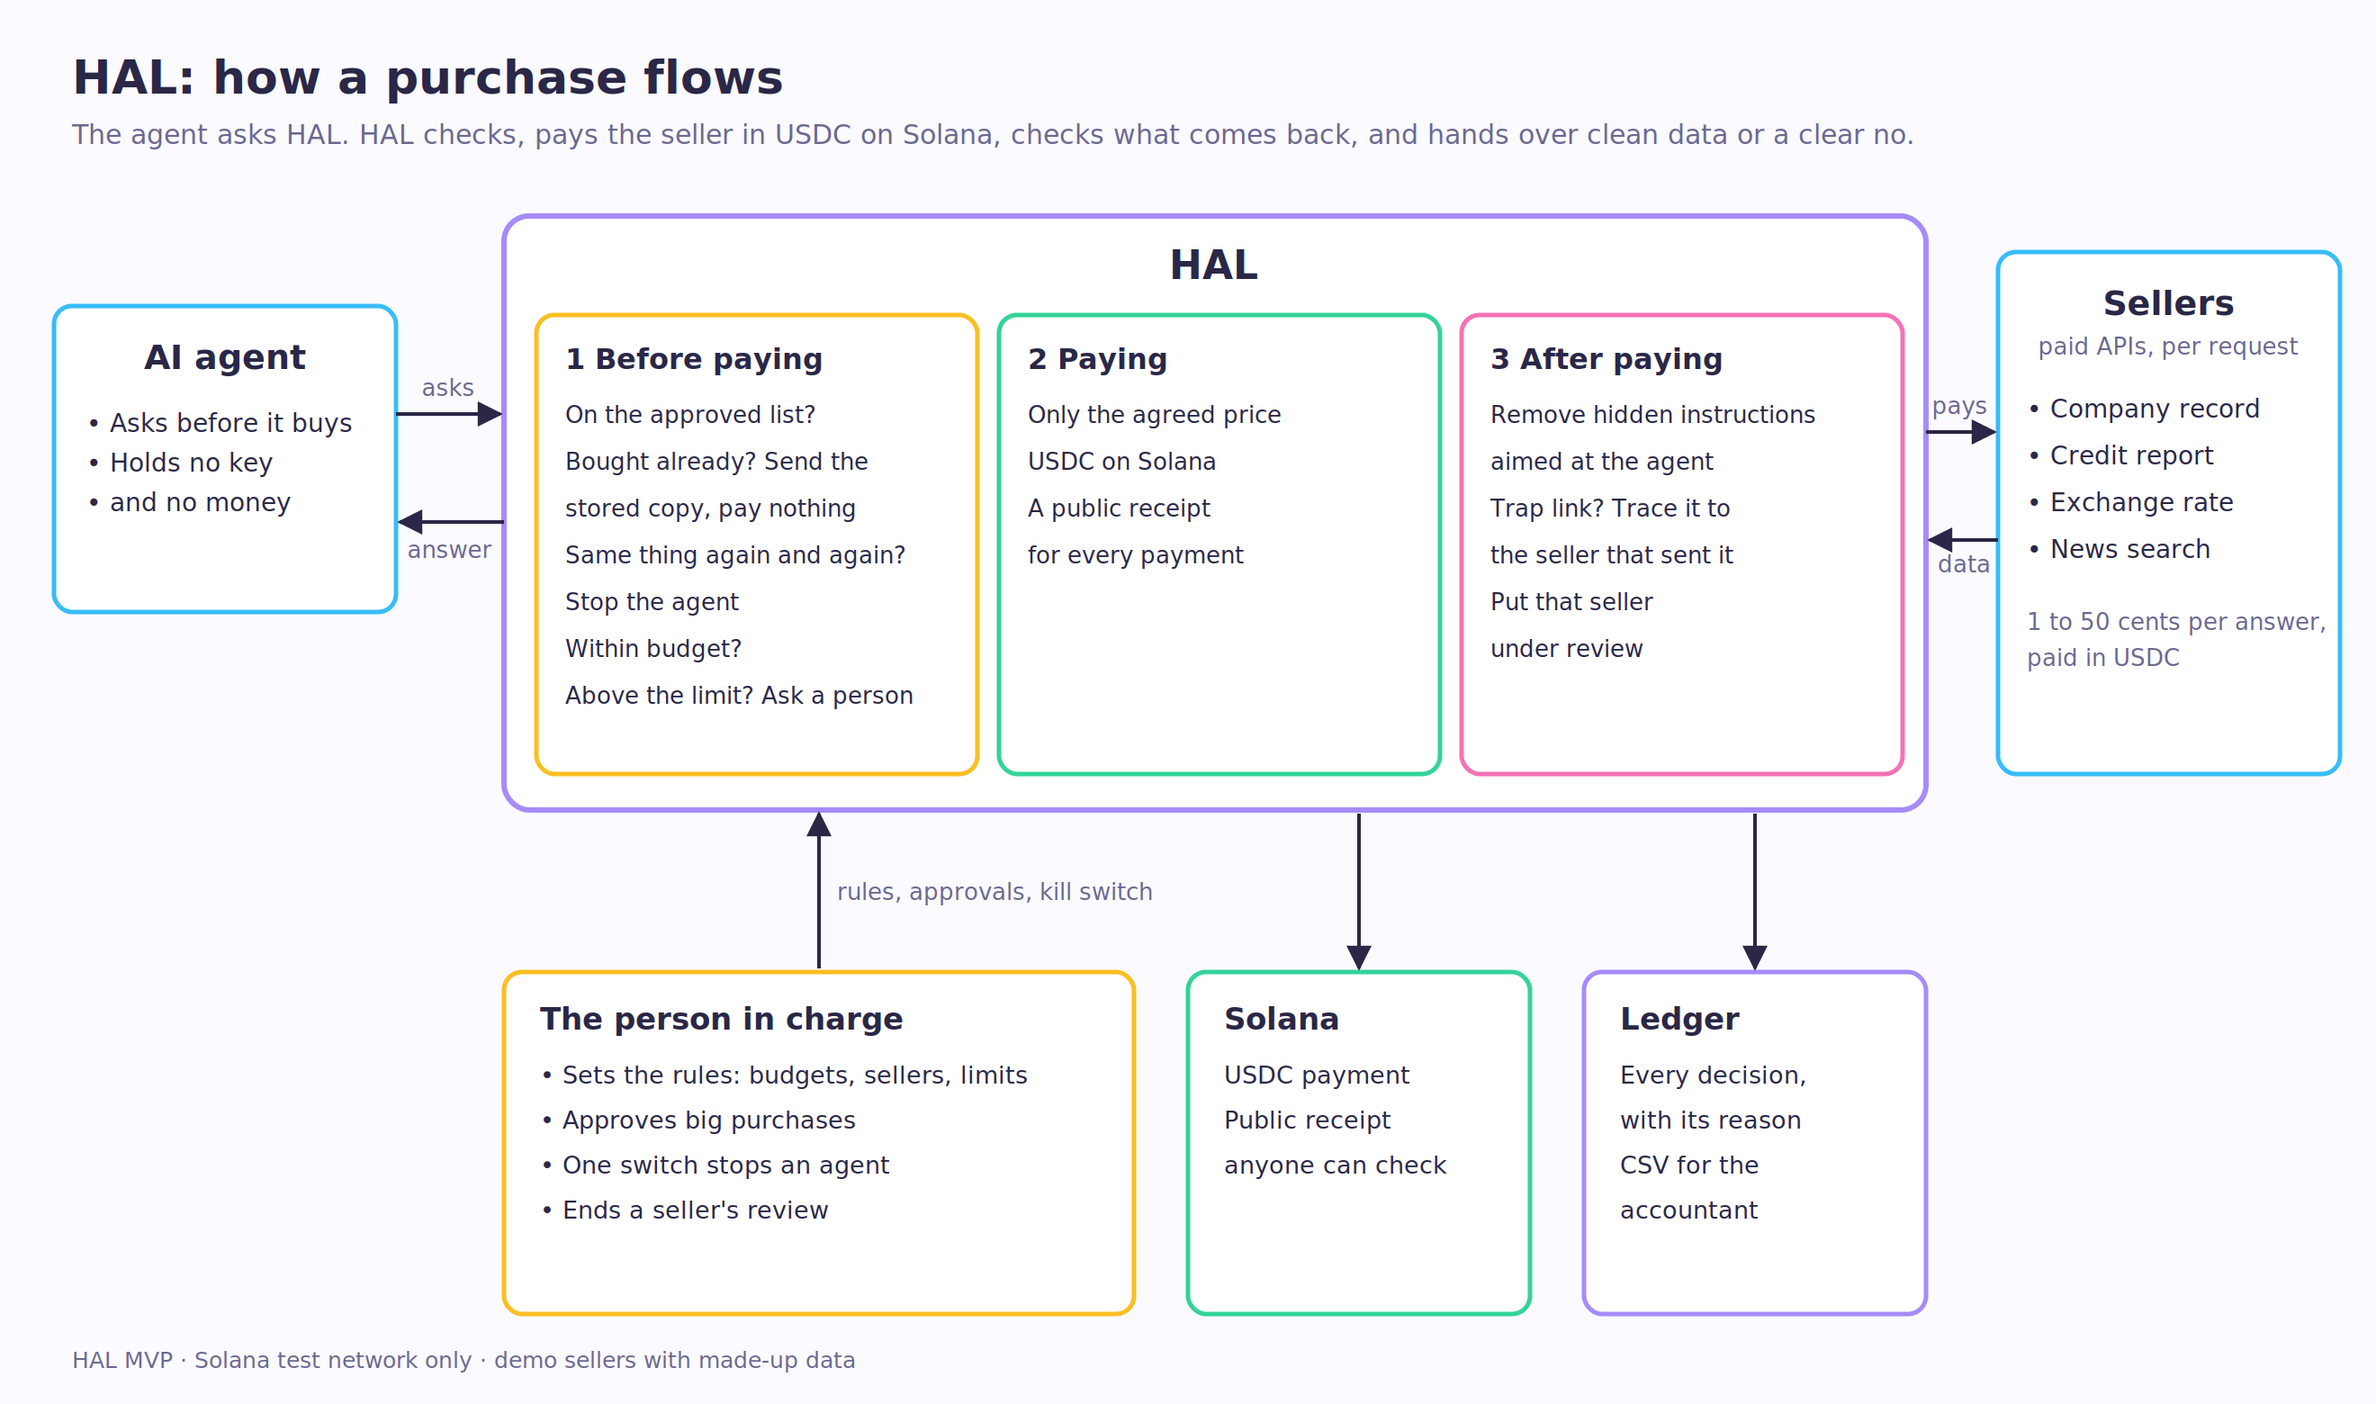
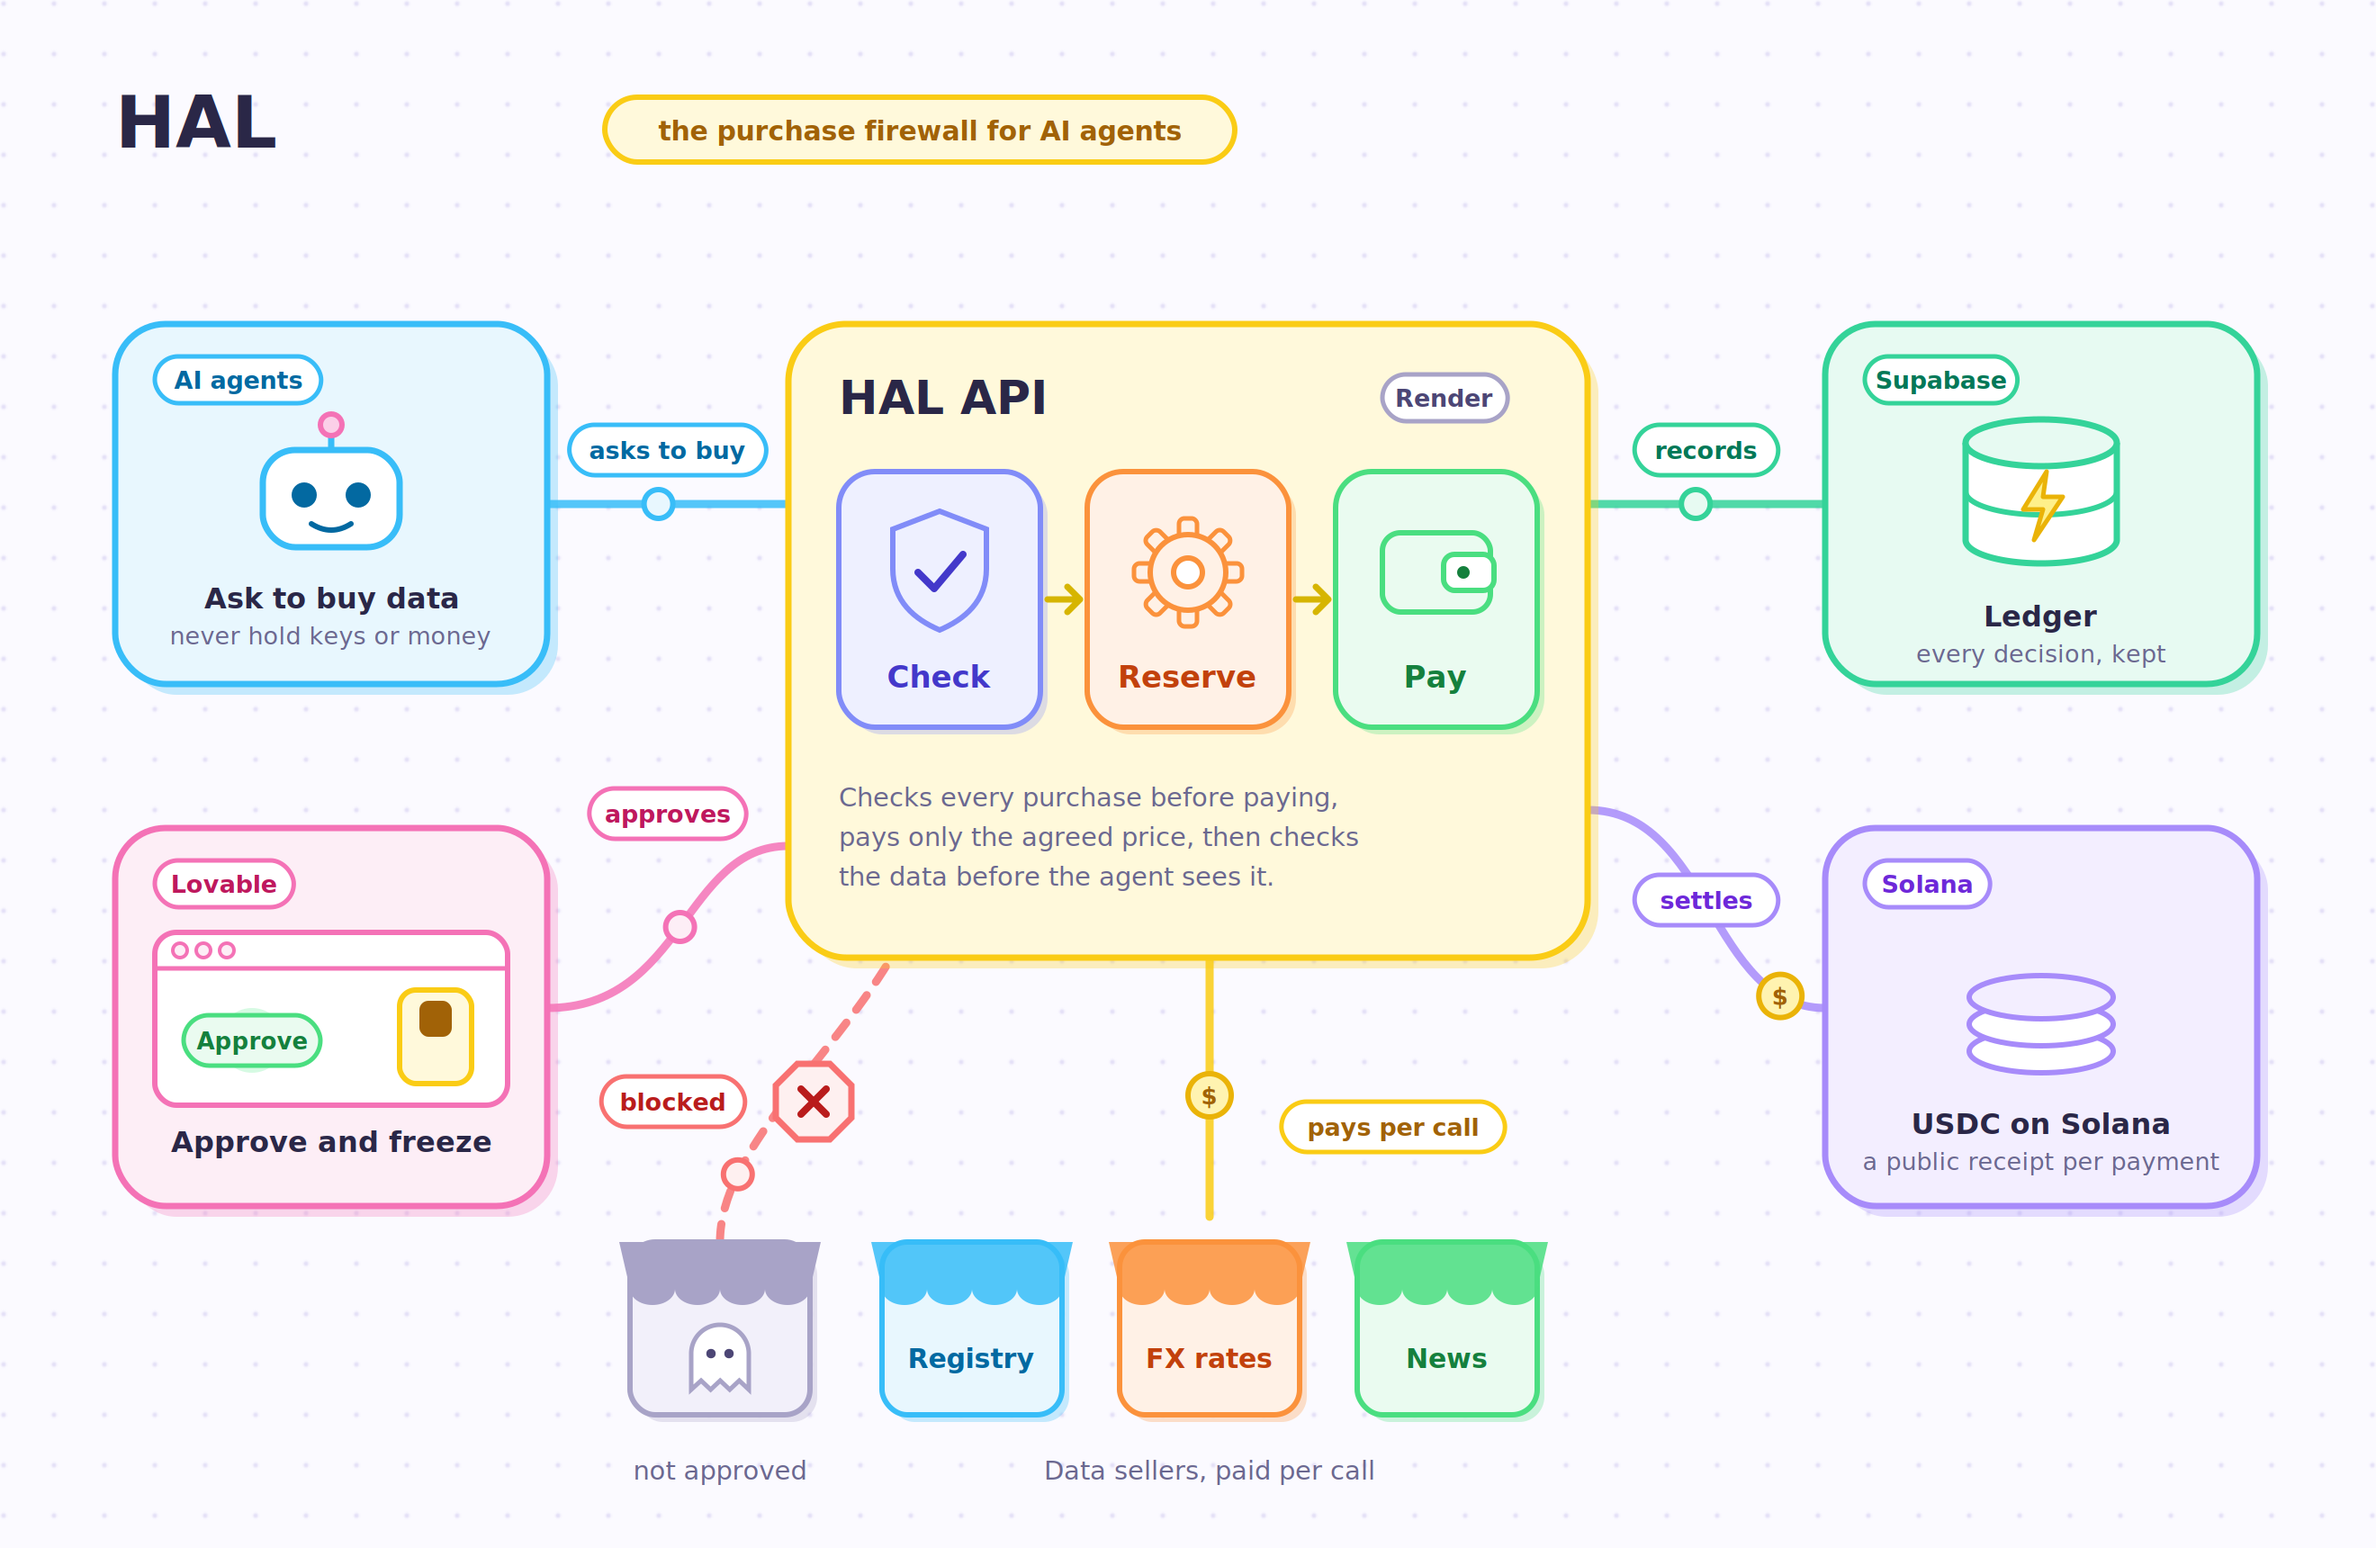
Refactor: Replaced diagrams and adjusted the new image to readme.md

diff --git a/README.md b/README.md
@@ -8,7 +8,7 @@ An AI agent asks HAL before it buys. HAL checks the purchase, pays the seller, c
 - **API docs:** https://agentbudget-api-n9y6.onrender.com/docs
 - Built for Superteam Germany's *Build an MVP with Solana at WHU* (2026). Formerly "AgentBudget", so some service and database names still say `agentbudget`.
 
-![HAL: how a purchase flows](docs/architecture.png)
+![HAL: how a purchase flows](docs/architecture.svg)
 
 ## Try it in 3 minutes
 
